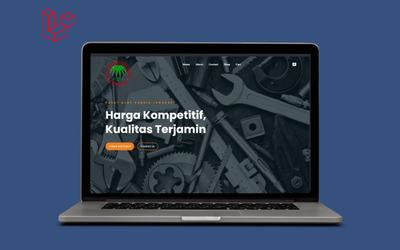
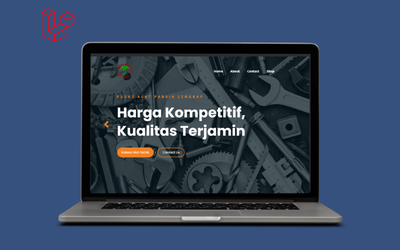
fix e-com

Changed region(s): [[0.21, 0.224, 0.78, 0.784]]

diff --git a/project-detail-11.html b/project-detail-11.html
@@ -109,13 +109,13 @@
                             </script>
                             <div class="swiper-wrapper align-items-center">
                                 <div class="swiper-slide">
-                                    <img src="images/1767842913_1_ecom12.jpeg" class="img-fluid" alt="Detail Project 1">
+                                    <img src="images/e-comm.png" class="img-fluid" alt="Detail Project 1">
                                 </div>
                                 <div class="swiper-slide">
-                                    <img src="images/1767842913_2_ecom13.jpeg" class="img-fluid" alt="Detail Project 2">
+                                    <img src="images/e-comm2.png" class="img-fluid" alt="Detail Project 2">
                                 </div>
                                 <div class="swiper-slide">
-                                    <img src="images/1767842913_3_ecom11.jpeg" class="img-fluid" alt="Detail Project 3">
+                                    <img src="images/e-comm3.png" class="img-fluid" alt="Detail Project 3">
                                 </div>
                             </div>
                             <div class="swiper-pagination"></div>

diff --git a/index.html b/index.html
@@ -63,7 +63,7 @@
   <main class="main">
 
     <!-- Hero Section -->
-    <section id="hero" class="hero section pt-0">
+    <section id="hero" class="hero section pt-0 pb-0">
 
       <div class="container">
         <div class="row gy-4">
@@ -551,12 +551,6 @@
                 <img src="assets/img/18.png" alt="SweetAlert2S">
               </div>
               <p class="text-center mt-2 fw-bold" style="color: #000000ff;">SweetAlert2</p>
-            </div>
-            <div class="col-lg-2 col-md-4 col-6 portfolio-item isotope-item filter-tech">
-              <div class="tech-box">
-                <img src="assets/img/19.png" alt="AdminLTE">
-              </div>
-              <p class="text-center mt-2 fw-bold" style="color: #000000ff;">AdminLTE</p>
             </div>
           </div>
         </div>
